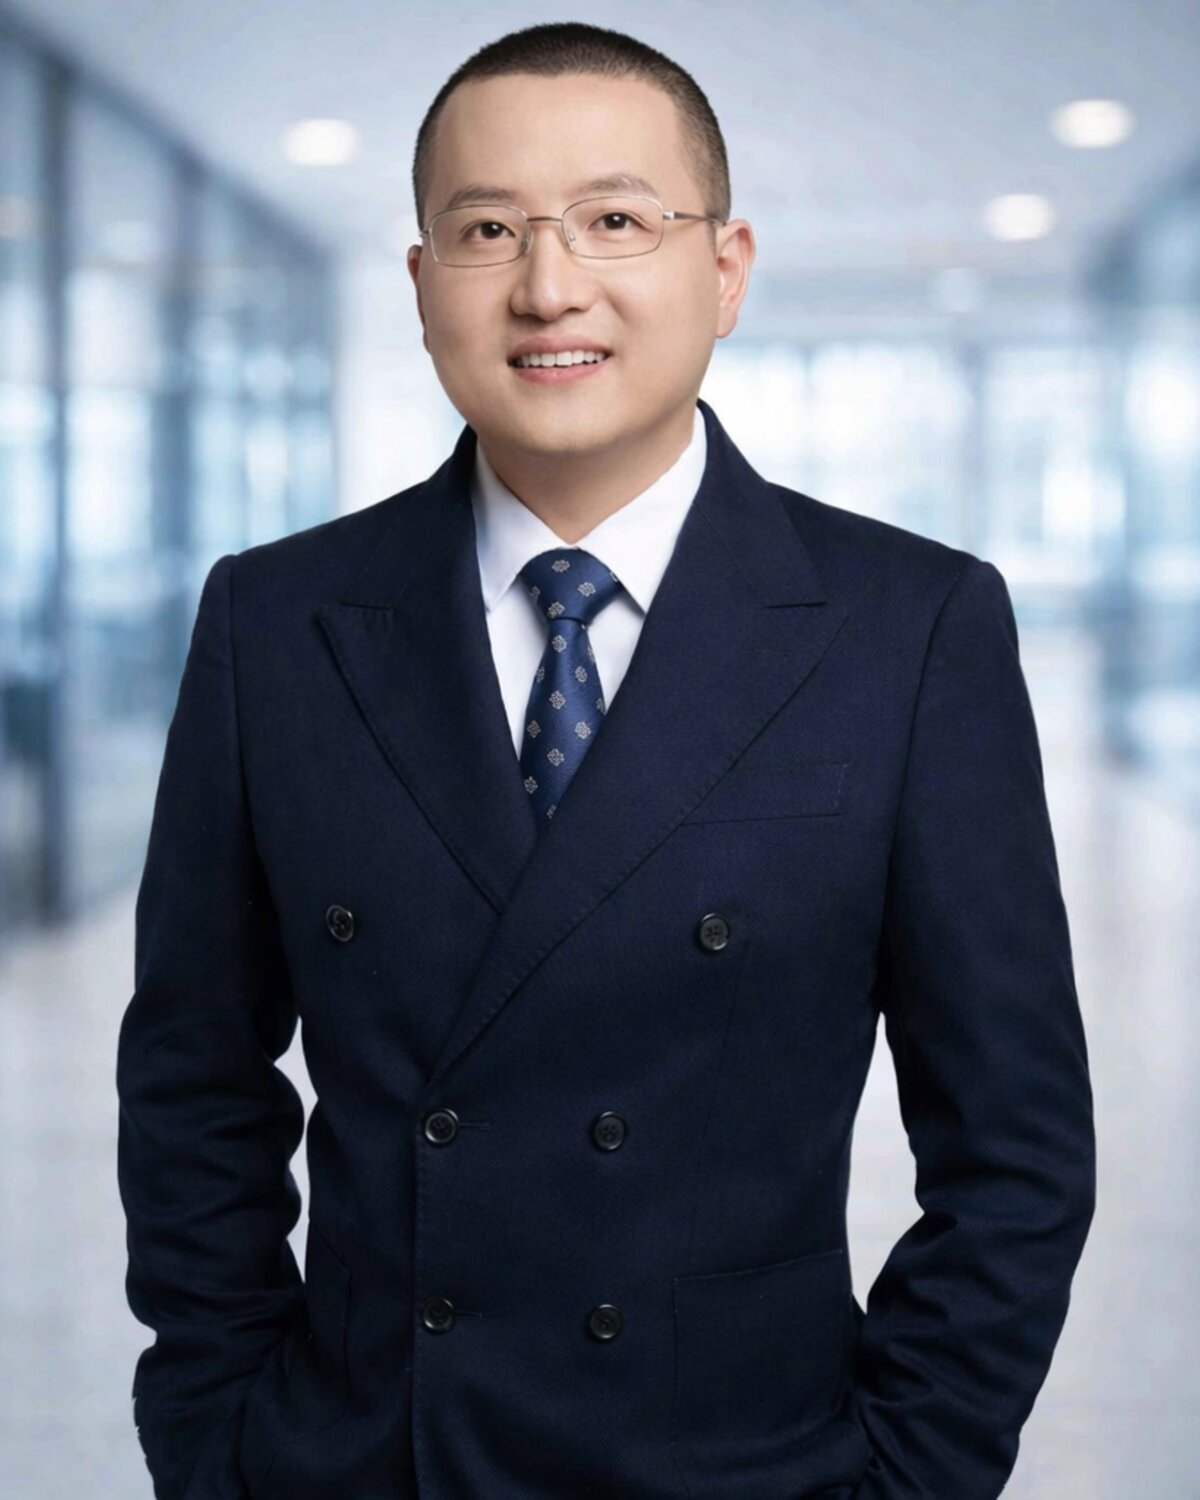
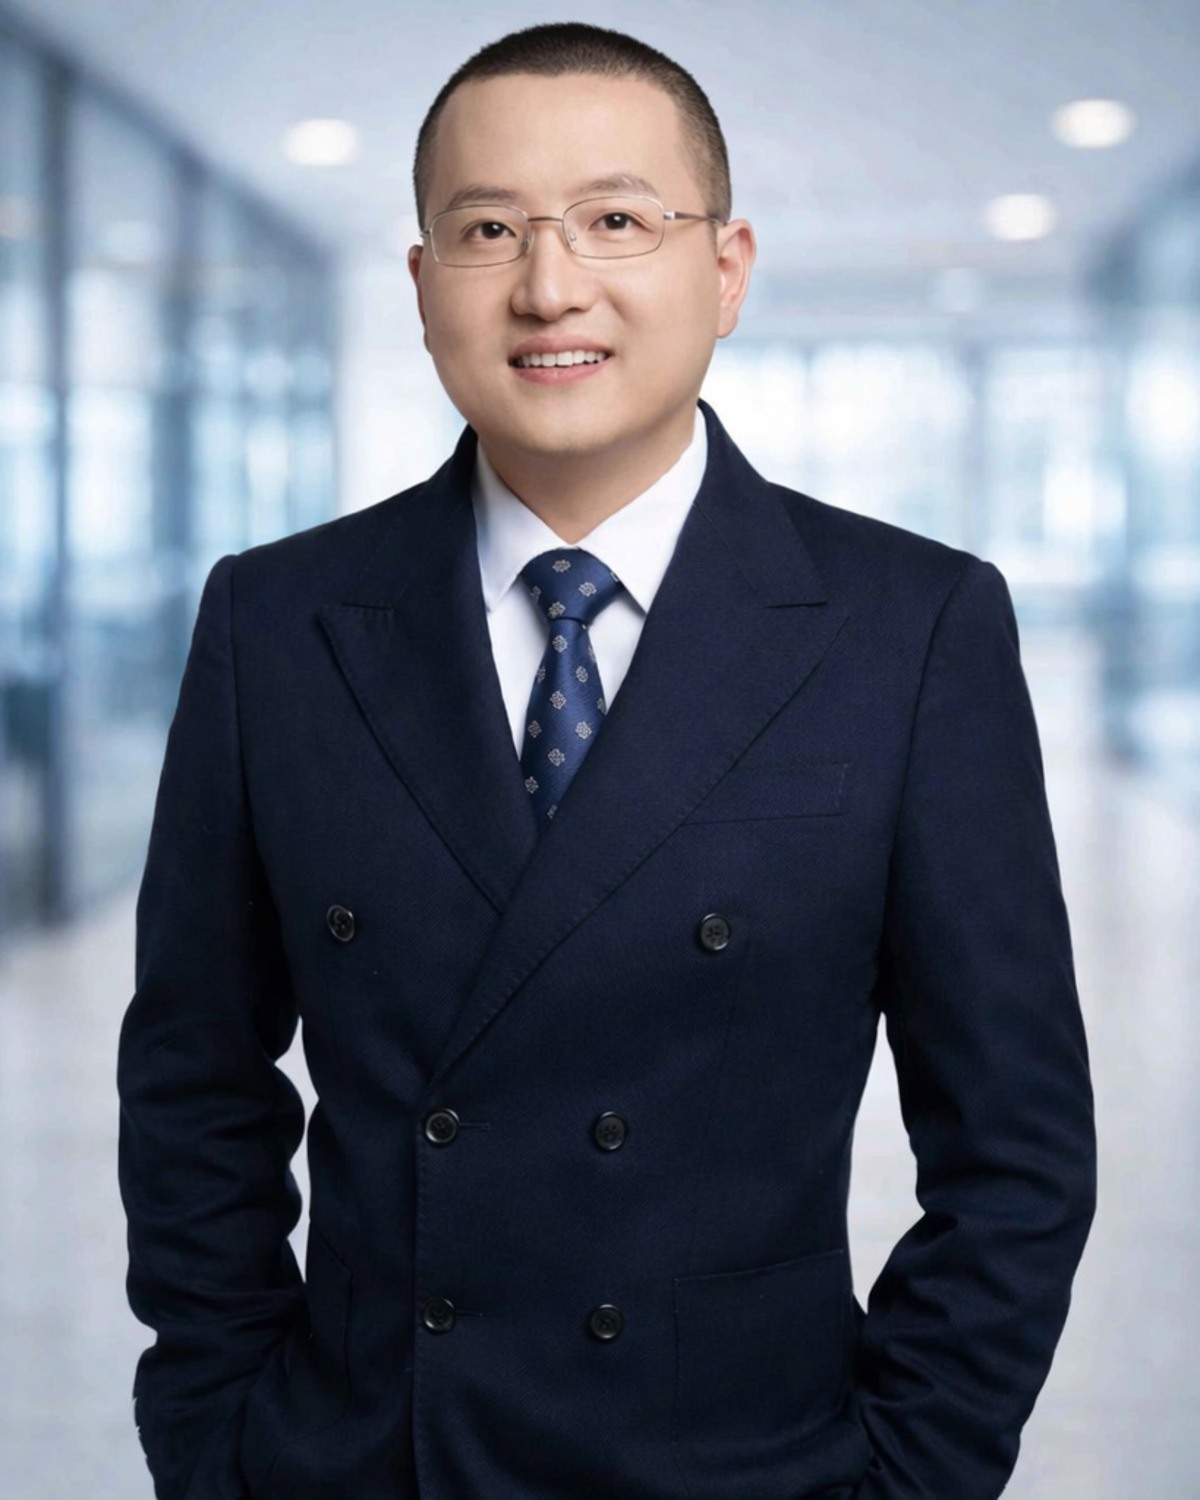
Final sync: clean up old image references and file paths

diff --git a/public/about.html b/public/about.html
@@ -5,7 +5,7 @@
     <meta name="viewport" content="width=device-width, initial-scale=1.0">
     <title>关于我们 - 浙江信义企业管理有限公司</title>
     <link rel="stylesheet" href="css/style.css?v=2.0">
-    <link rel="stylesheet" href="css/about.css?v=20260305a">
+    <link rel="stylesheet" href="css/about.css?v=20260307a">
     <link rel="stylesheet" href="css/responsive.css?v=2.1">
     <link rel="stylesheet" href="https://cdn.staticfile.org/font-awesome/5.15.3/css/all.min.css">
 </head>
@@ -76,7 +76,7 @@
 	            <div class="team-members">
 	                <div class="team-member">
                     <div class="member-image">
-                        <img src="img/portraits/zengyunjun_real.jpg" alt="曾云俊" loading="lazy" decoding="async">
+                        <img src="img/portraits/zengyunjun_4x5.webp" alt="曾云俊" loading="lazy" decoding="async">
                     </div>
                     <div class="member-info">
                         <h3>曾云俊</h3>
@@ -91,7 +91,7 @@
 	
 	                <div class="team-member">
                     <div class="member-image">
-                        <img src="img/portraits/zengruixian_real.png" alt="曾瑞锨" loading="lazy" decoding="async">
+                        <img src="img/portraits/zengruixian_4x5.webp" alt="曾瑞锨" loading="lazy" decoding="async">
                     </div>
                     <div class="member-info">
                         <h3>曾瑞锨</h3>
@@ -106,7 +106,7 @@
 	
 	                <div class="team-member">
                     <div class="member-image">
-                        <img src="img/portraits/liangjie_real.png" alt="梁杰" loading="lazy" decoding="async">
+                        <img src="img/portraits/liangjie_team_4x5.webp" alt="梁杰" loading="lazy" decoding="async">
                     </div>
                     <div class="member-info">
                         <h3>梁杰</h3>

diff --git a/public/css/about.css b/public/css/about.css
@@ -120,11 +120,14 @@
 
 .member-image {
     overflow: hidden;
+    aspect-ratio: 4 / 5;
 }
 
 .member-image img {
     width: 100%;
-    height: auto;
+    height: 100%;
+    object-fit: cover;
+    object-position: center top;
     transition: var(--transition);
 }
 
